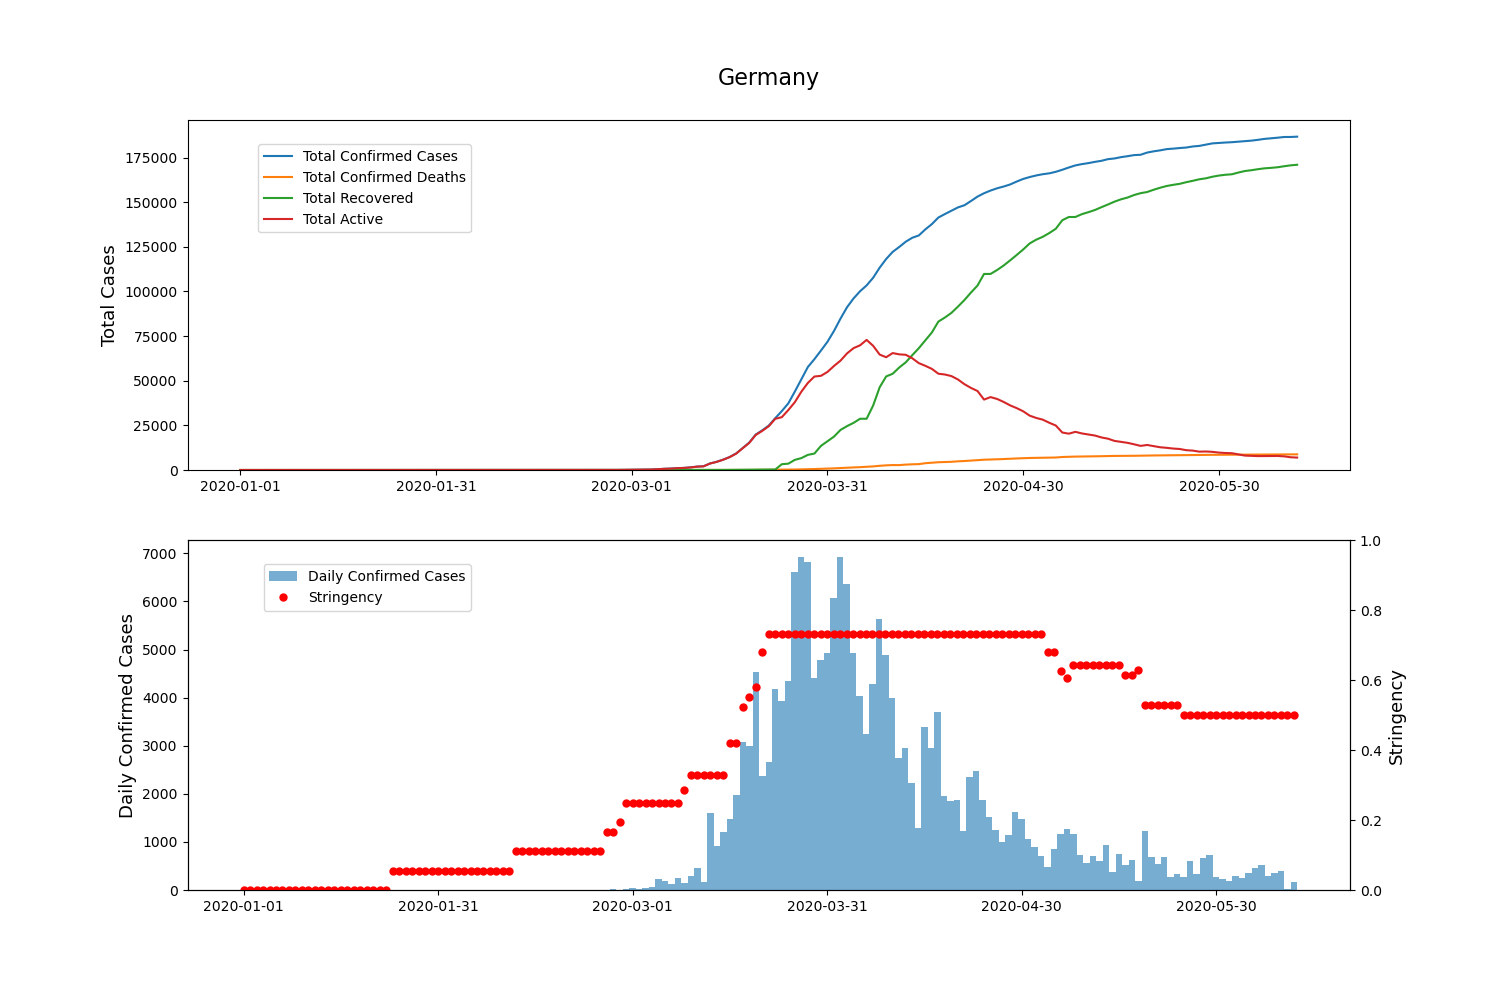
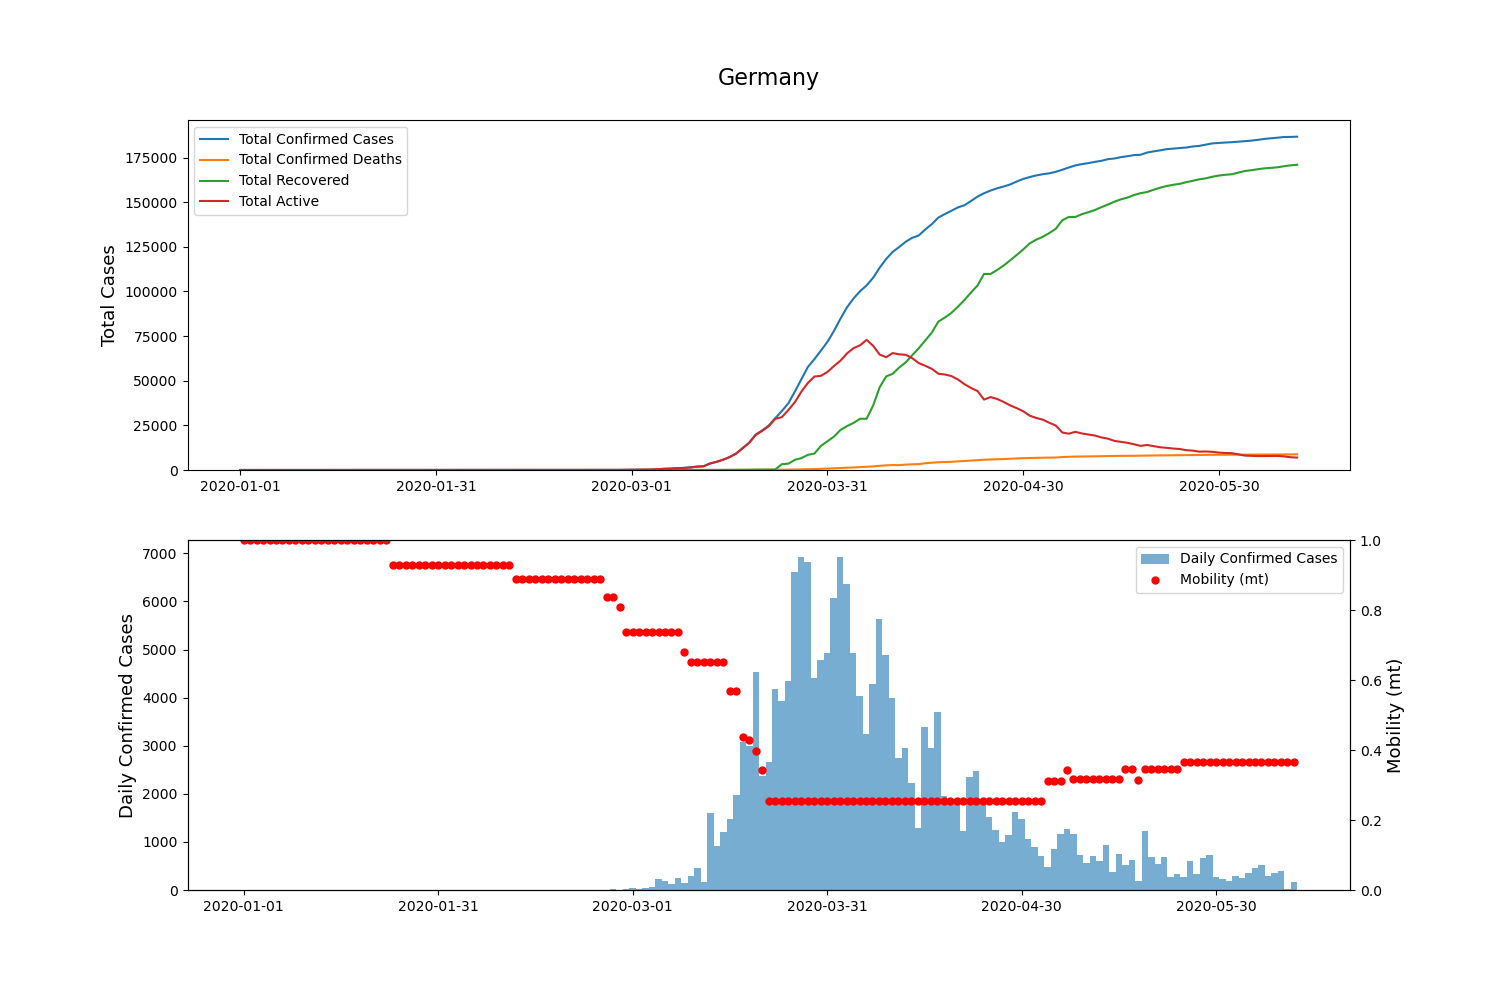
Example image changed

diff --git a/covid/mobility.py b/covid/mobility.py
@@ -219,7 +219,7 @@ def test_mobility_data():
 	print("Testing Mobility DataFrame:")
 	mobility = Mobility()
 	#mobility.print_info()
-	mobility.plot_mobility("DEU", feat=FEATURE.stringency)
+	mobility.plot_mobility("DEU", feat=FEATURE.mobility)
 
 	#mobility.update()
 	print("Test finished!")
